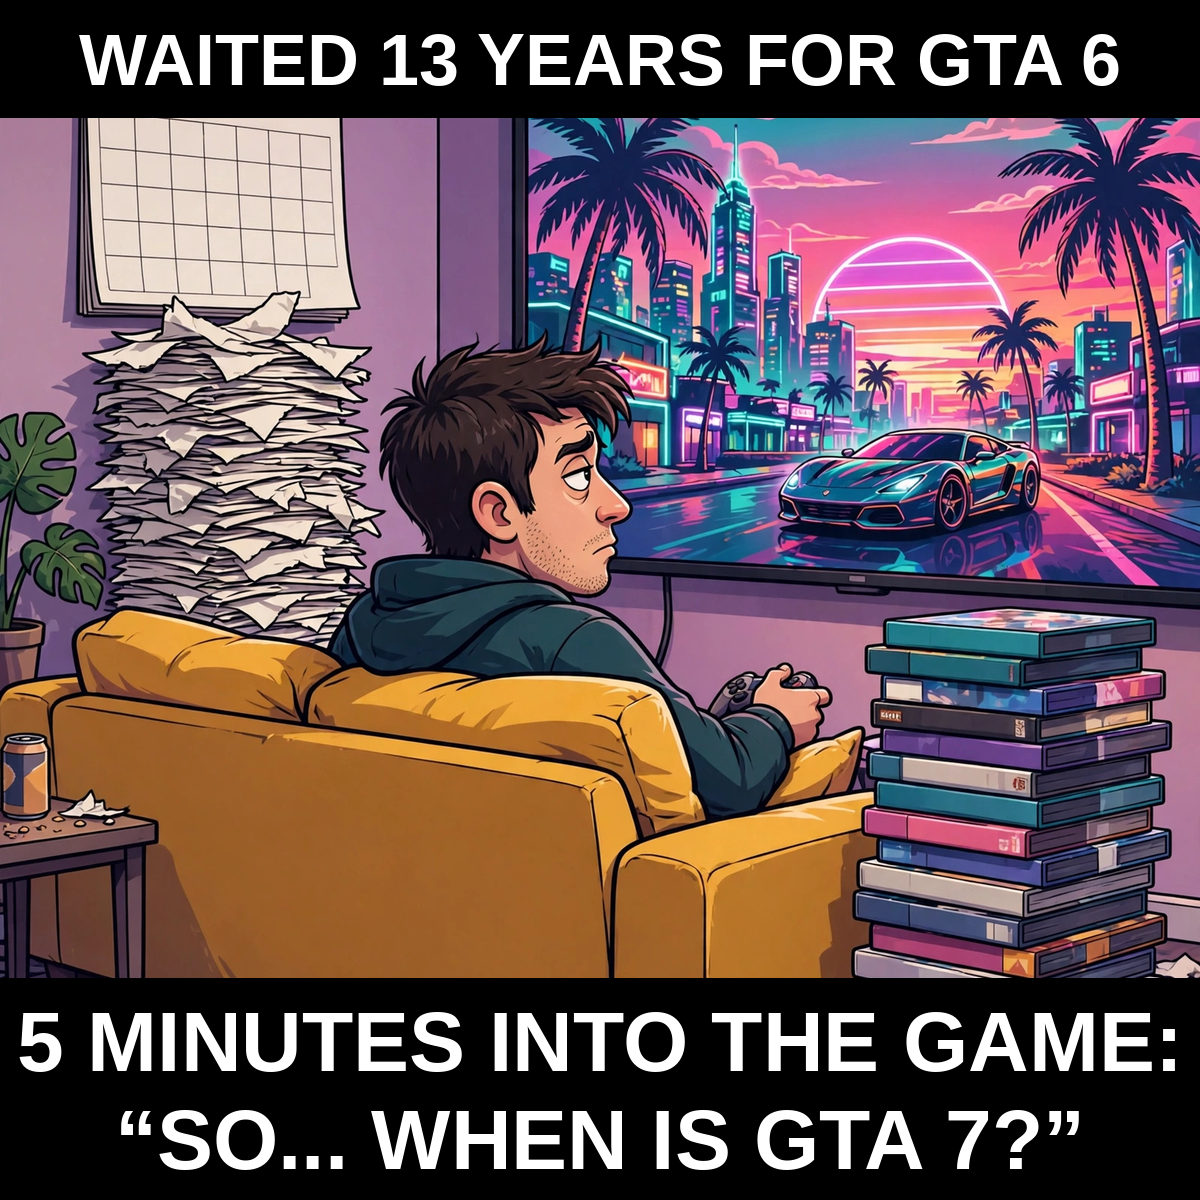
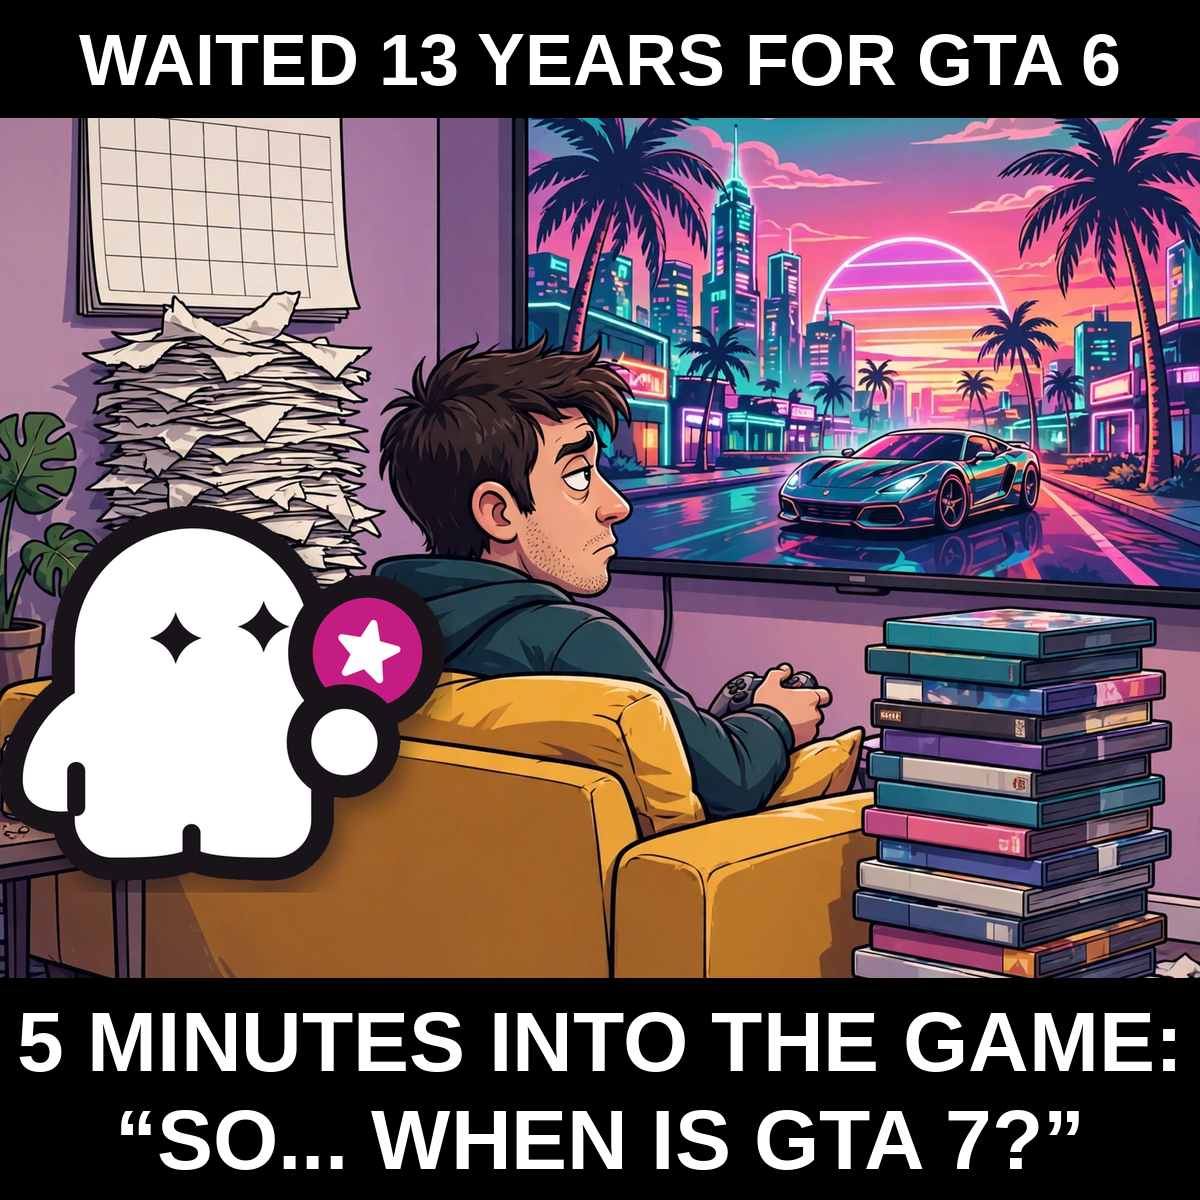
Meme v2 with the make.fun ghost in the scene; main.ts now copies POST.json for the grader gate

Changed region(s): [[0.0, 0.4008, 0.4008, 0.7708]]

diff --git a/main.ts b/main.ts
@@ -1,53 +1,21 @@
-// GTA 6 meme entry for make.fun's "Post a GTA 6 meme on X" bounty
-// (gta6-meme-x-01). The deliverable is the meme image (meme.png) plus
-// the caption of the public X post that carries it.
+// Entry program for the make.fun bounty "Post a GTA 6 meme on X"
+// (gta6-meme-x-01). The post on X is the entry; this program's whole
+// job is to hand the grader the post's address: it copies POST.json
+// from the repository directory to the output directory, byte for
+// byte, and prints nothing on success.
 //
-// Running this file copies meme.png into the output directory and
-// writes post.txt there: the exact caption of the X post and, once
-// post.json names it, the URL of the published post.
+// The grader runs it as:
+//   MAKEFUN_BOT_DIR=<repo> MAKEFUN_OUTPUT_DIR=<out> node main.ts
+// (with no environment set, the repository is the working directory
+// and the output directory is /output). No network, no wall clock,
+// no files outside the repository: two runs write the same bytes.
 
-import { copyFileSync, mkdirSync, readFileSync, writeFileSync } from "node:fs";
-import { dirname, join } from "node:path";
-import { fileURLToPath } from "node:url";
+import { readFileSync, writeFileSync, mkdirSync } from "node:fs";
+import { join } from "node:path";
 
-const root = dirname(fileURLToPath(import.meta.url));
+const botDir: string = process.env.MAKEFUN_BOT_DIR || ".";
+const outputDir: string = process.env.MAKEFUN_OUTPUT_DIR || "/output";
 
-const CAPTION =
-  'Waited 13 years for GTA 6. Five minutes into the game: "so... when is GTA 7?" \u{1F923} #GTA6 #GTAVI\n' +
-  "\n" +
-  "My entry for the @makefunai GTA 6 meme bounty \u2014 play code: xhekm2zm";
-
-function readPostUrl(): string {
-  const post = JSON.parse(readFileSync(join(root, "post.json"), "utf8"));
-  return typeof post.post_url === "string" ? post.post_url.trim() : "";
-}
-
-function emit(outDir: string, postUrl: string): void {
-  mkdirSync(outDir, { recursive: true });
-  copyFileSync(join(root, "meme.png"), join(outDir, "meme.png"));
-
-  const lines = [CAPTION];
-  if (postUrl !== "") {
-    lines.push("", postUrl);
-  }
-  writeFileSync(join(outDir, "post.txt"), lines.join("\n") + "\n");
-}
-
-function main(): void {
-  const postUrl = readPostUrl();
-
-  // The grader's output directory is /output; when it cannot be created
-  // or written (a sandbox without permission for it), fall back to an
-  // output directory beside this file so the run still completes.
-  let outDir = "/output";
-  try {
-    emit(outDir, postUrl);
-  } catch {
-    outDir = join(root, "output");
-    emit(outDir, postUrl);
-  }
-
-  console.log("meme.png and post.txt written to " + outDir);
-}
-
-main();
+const post: Buffer = readFileSync(join(botDir, "POST.json"));
+mkdirSync(outputDir, { recursive: true });
+writeFileSync(join(outputDir, "POST.json"), post);
